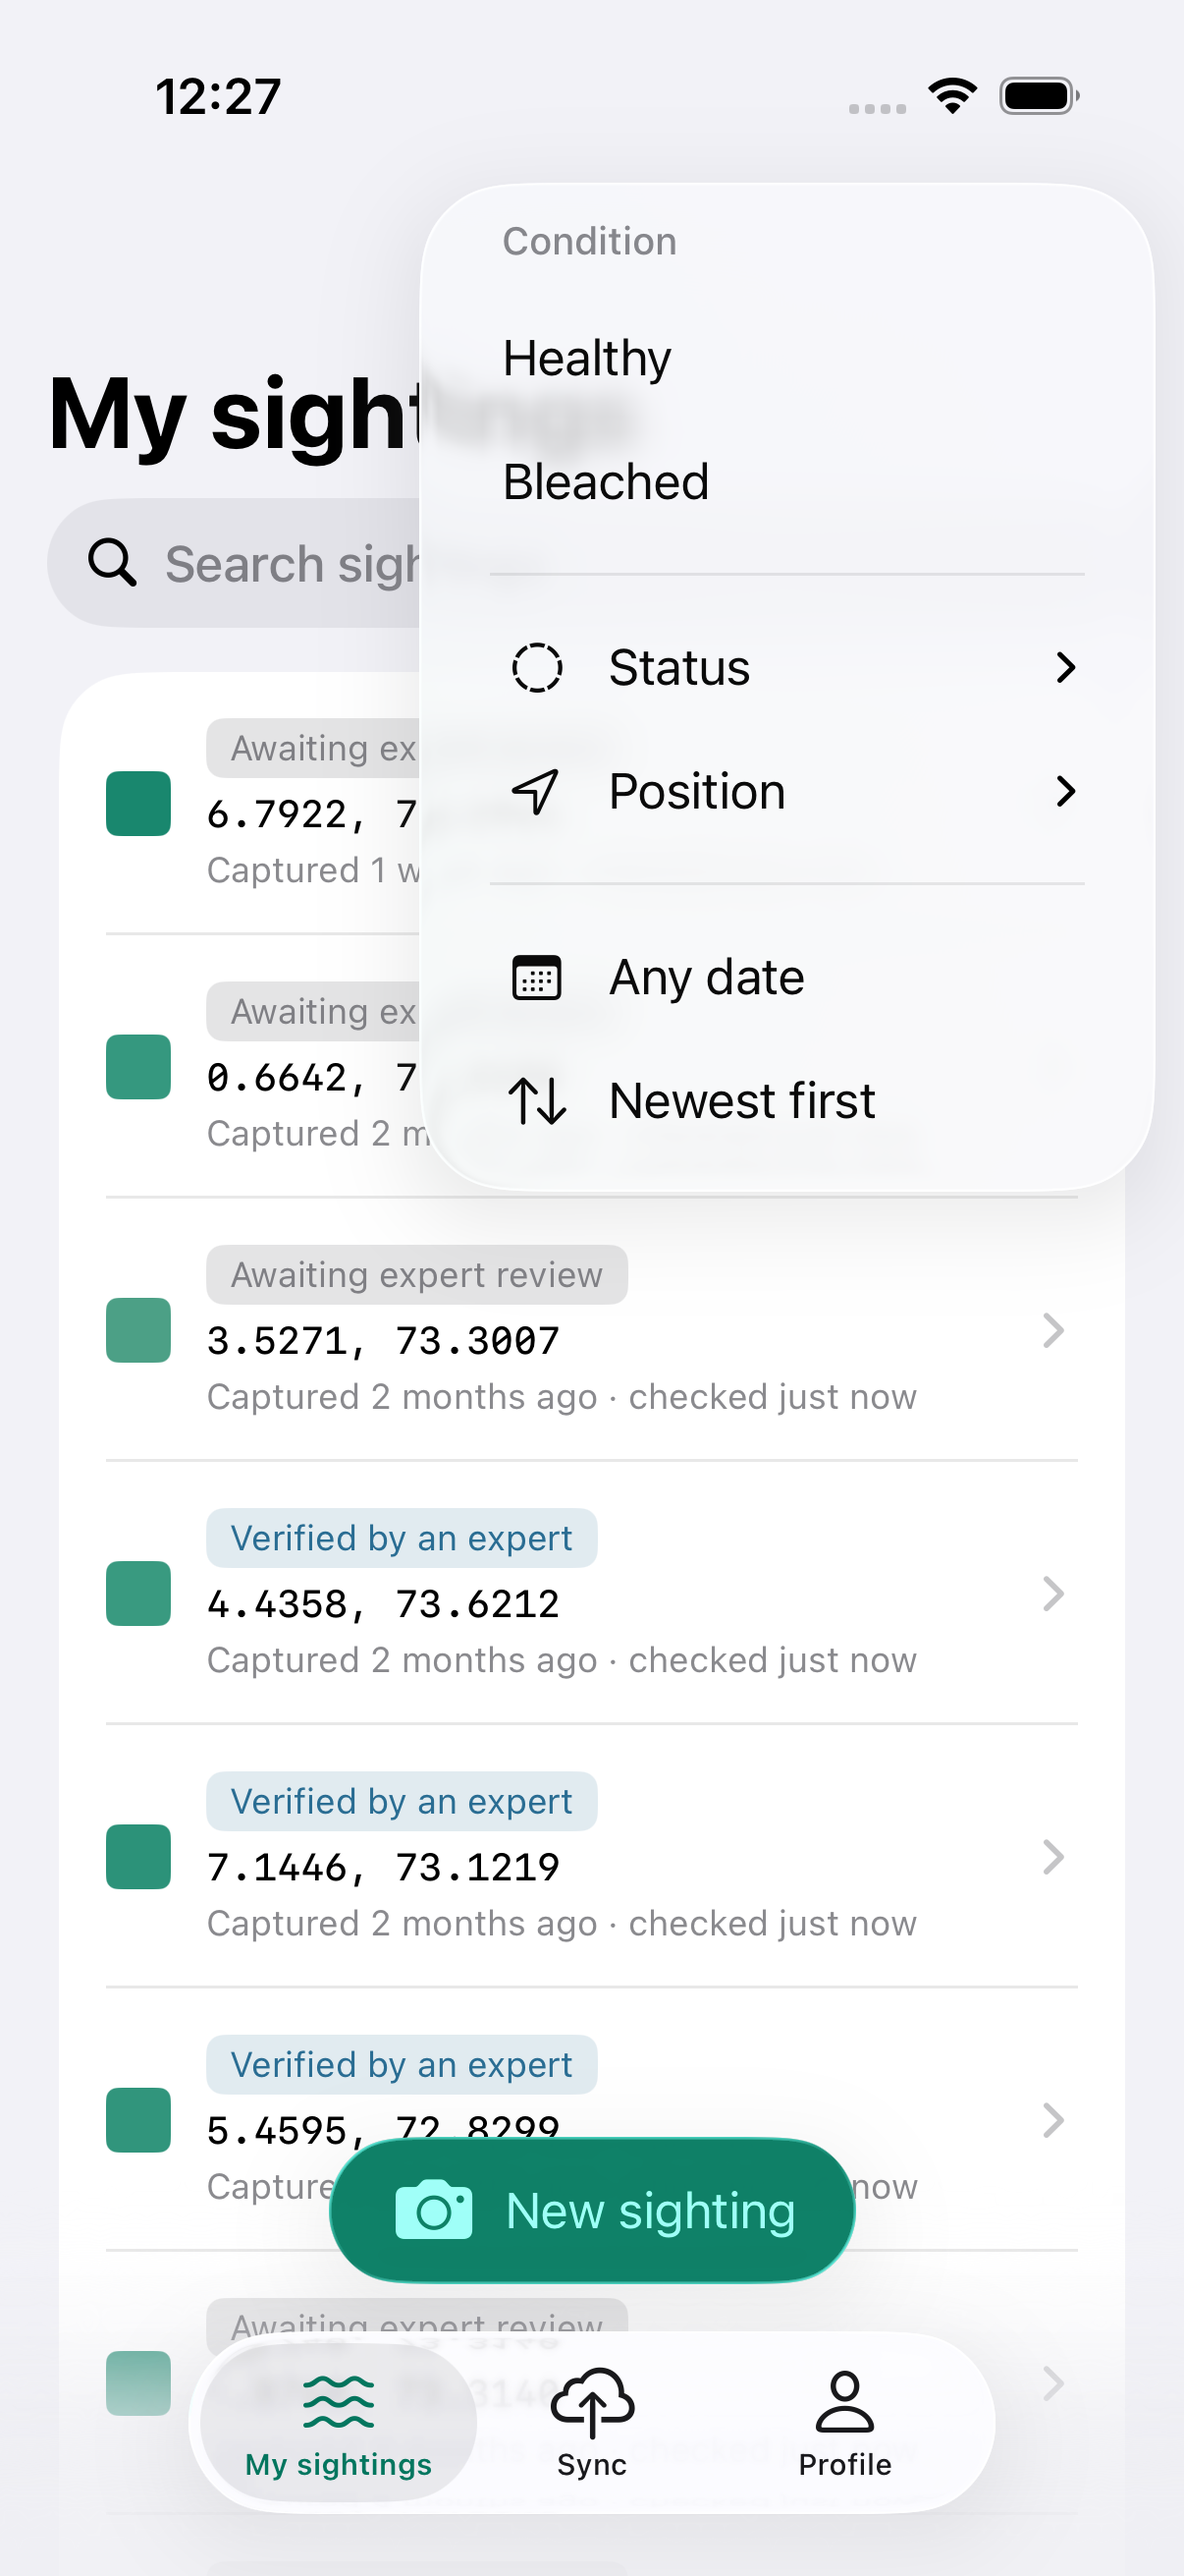
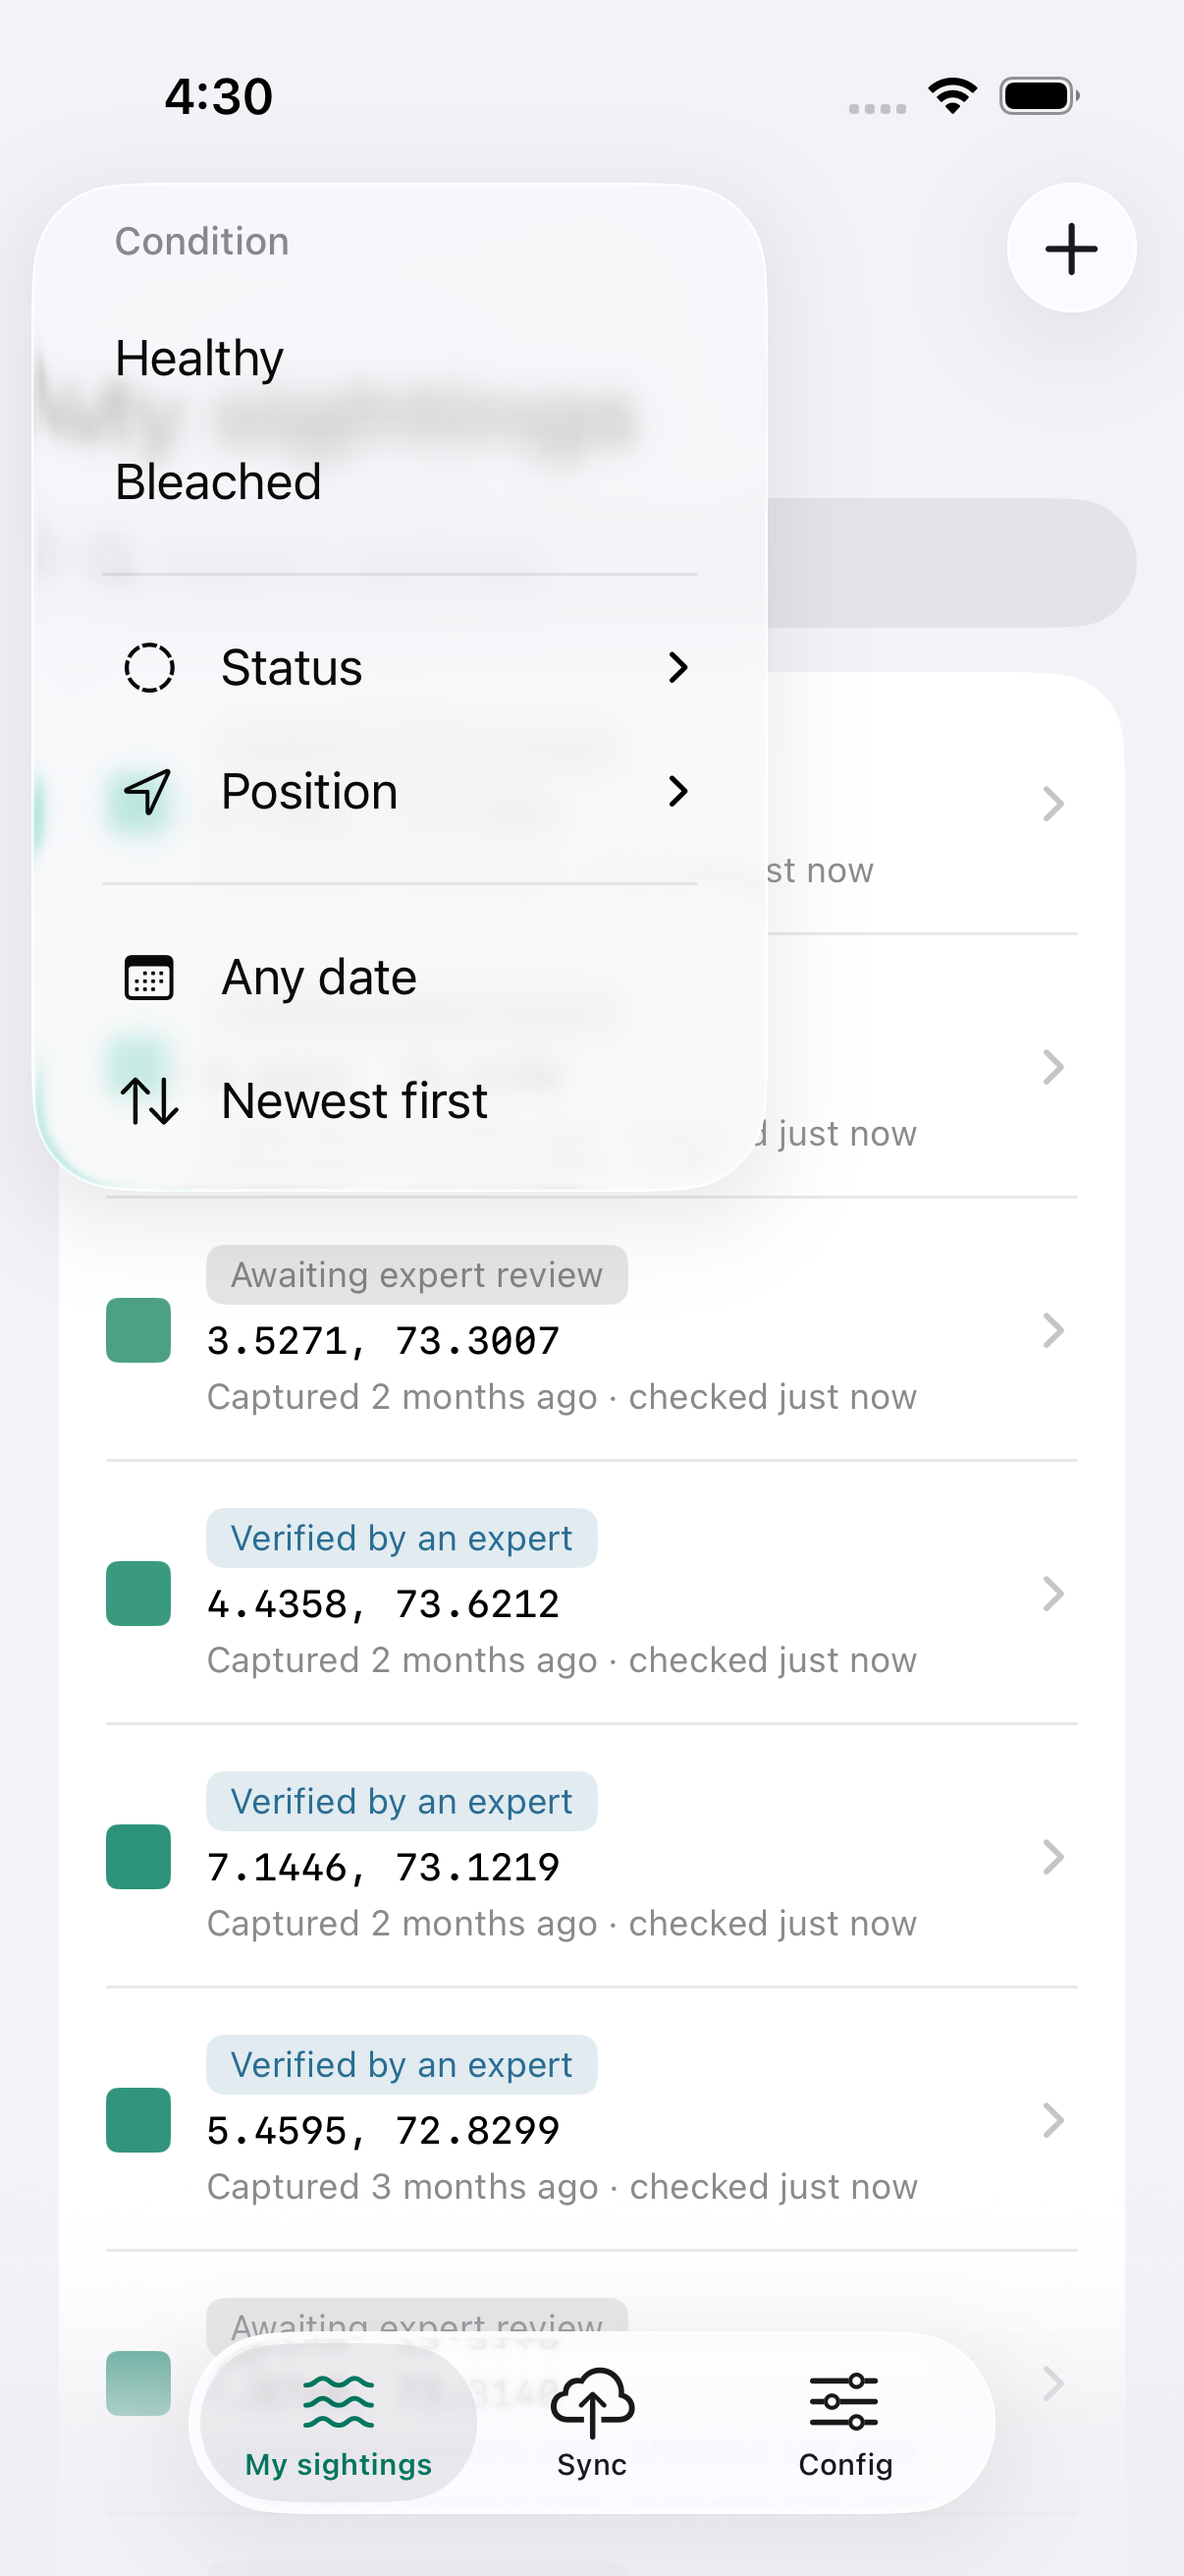
Move the iOS capture and filter controls into the navigation bar

diff --git a/ios/Muraka/Features/Sightings/MySightingsViewController.swift b/ios/Muraka/Features/Sightings/MySightingsViewController.swift
@@ -9,7 +9,6 @@ final class MySightingsViewController: UIViewController {
     private let container: AppContainer
     private let tableView = UITableView(frame: .zero, style: .insetGrouped)
     private let refreshControl = UIRefreshControl()
-    private let captureButton = UIButton(configuration: GlassSurface.makeButtonConfiguration(.primary))
 
     /// Everything the device knows about, unfiltered.
     private var allSightings: [ContributorSighting] = []
@@ -55,34 +54,21 @@ final class MySightingsViewController: UIViewController {
         tableView.register(SightingCell.self, forCellReuseIdentifier: SightingCell.reuseIdentifier)
         tableView.rowHeight = UITableView.automaticDimension
         tableView.estimatedRowHeight = 88
-        // Room for the floating capture button, which would otherwise cover the last row —
-        // and on a short history, every row.
-        tableView.contentInset.bottom = 96
+        // The floating tab bar is inside the safe area, which the automatic inset already
+        // accounts for; this is breathing room below the last row rather than clearance.
+        // It was 96 to clear a floating capture button that has since moved into the
+        // navigation bar.
+        tableView.contentInset.bottom = Spacing.lg
         refreshControl.addTarget(self, action: #selector(pullToRefresh), for: .valueChanged)
         tableView.refreshControl = refreshControl
         view.addSubview(tableView)
 
         // Glass, because this is chrome floating over content — exactly what it is for.
-        captureButton.configuration?.title = "New sighting"
-        captureButton.configuration?.image = UIImage(systemName: "camera.fill")
-        captureButton.configuration?.imagePadding = 8
-        captureButton.translatesAutoresizingMaskIntoConstraints = false
-        captureButton.addTarget(self, action: #selector(startCapture), for: .touchUpInside)
-        captureButton.accessibilityLabel = "Record a new sighting"
-        view.addSubview(captureButton)
-
         NSLayoutConstraint.activate([
             tableView.topAnchor.constraint(equalTo: view.topAnchor),
             tableView.leadingAnchor.constraint(equalTo: view.leadingAnchor),
             tableView.trailingAnchor.constraint(equalTo: view.trailingAnchor),
             tableView.bottomAnchor.constraint(equalTo: view.bottomAnchor),
-
-            captureButton.centerXAnchor.constraint(equalTo: view.centerXAnchor),
-            captureButton.bottomAnchor.constraint(
-                equalTo: view.safeAreaLayoutGuide.bottomAnchor,
-                constant: -16
-            ),
-            captureButton.heightAnchor.constraint(greaterThanOrEqualToConstant: 50),
         ])
     }
 
@@ -119,11 +105,30 @@ final class MySightingsViewController: UIViewController {
         navigationItem.preferredSearchBarPlacement = .stacked
         navigationItem.hidesSearchBarWhenScrolling = false
 
+        // `+` in the top right, which is where Contacts and Calendar have put "add" for
+        // years. Apple's newest apps (Mail, Notes on iOS 26) use a floating bottom-right
+        // button instead — but neither has a tab bar, so bottom-right is free for them. Ours
+        // does, and a floating pill there competed with the tab bar and covered the last row.
+        let capture = UIBarButtonItem(
+            systemItem: .add,
+            primaryAction: UIAction { [weak self] _ in self?.startCapture() }
+        )
+        capture.accessibilityLabel = "Record a new sighting"
+        capture.accessibilityIdentifier = "newSighting"
+        navigationItem.rightBarButtonItem = capture
+
         refreshFilterButton()
     }
 
+    /// The filter lives in the **left** slot.
+    ///
+    /// Not the conventional place — Files, Photos and Reminders all put view and sort options
+    /// top right, and the left slot is normally Back, Cancel or Edit. But this is a tab root,
+    /// so there is no Back to collide with, and the right slot now holds `+`; two icons there
+    /// alongside a search field is crowded enough to be worse than the unconventional
+    /// placement.
     private func refreshFilterButton() {
-        navigationItem.rightBarButtonItem = SightingFilterMenu.makeBarButton(
+        navigationItem.leftBarButtonItem = SightingFilterMenu.makeBarButton(
             filter: filter,
             actions: SightingFilterMenu.Actions(
                 setCondition: { [weak self] in self?.filter.condition = $0 },

diff --git a/ios/MurakaUITests/SignInFlowUITests.swift b/ios/MurakaUITests/SignInFlowUITests.swift
@@ -292,6 +292,40 @@ final class SignInFlowUITests: XCTestCase {
     }
 
     /// The contributor may never be shown a success the server has not confirmed (D21).
+    /// The floating tab bar on iOS 26 sits *over* the scroll view, so the last row is only
+    /// reachable if the content inset clears it. This is a regression guard with a specific
+    /// history: the capture control used to be a floating button and the inset was sized for
+    /// it, so shrinking the inset when that control moved into the navigation bar could
+    /// silently strand the final sighting underneath the tab bar.
+    func testTheLastRowIsReachableUnderTheFloatingTabBar() throws {
+        try skipUnlessStackIsUp()
+        signIn()
+
+        let cells = app.tables.cells
+        XCTAssertTrue(cells.element(boundBy: 0).waitForExistence(timeout: 15), "seed the stack first")
+
+        // Swipe rather than `scrollToElement`: the point is what a thumb can actually reach,
+        // and XCUIElement.tap() on an off-screen row would scroll it into view for free and
+        // prove nothing.
+        for _ in 0 ..< 12 { app.tables.firstMatch.swipeUp() }
+
+        let last = cells.element(boundBy: cells.count - 1)
+        attach(name: "07-list-bottom")
+        XCTAssertTrue(last.exists, "the list should still have rows after scrolling")
+        XCTAssertTrue(
+            last.isHittable,
+            "the last row is under the floating tab bar — the bottom content inset is too small"
+        )
+
+        let tabBar = app.tabBars.firstMatch
+        XCTAssertTrue(tabBar.exists)
+        XCTAssertLessThanOrEqual(
+            last.frame.maxY.rounded(),
+            tabBar.frame.minY.rounded(),
+            "the last row overlaps the tab bar even when fully scrolled"
+        )
+    }
+
     func testNoScreenClaimsASightingIsSynced() throws {
         try skipUnlessStackIsUp()
         signIn()

diff --git a/ios/Muraka/App/AppDelegate.swift b/ios/Muraka/App/AppDelegate.swift
@@ -30,11 +30,20 @@ final class AppDelegate: UIResponder, UIApplicationDelegate {
     /// app reinstall — which is correct behaviour and exactly what makes a test that assumes
     /// a signed-out app fail on its second run.
     ///
-    /// Only the session goes. The outbox is untouched, because a flag that also wiped queued
-    /// sightings would be a footgun aimed at the one thing this app must not lose.
+    /// The session and the appearance preferences go. The outbox is untouched, because a flag
+    /// that also wiped queued sightings would be a footgun aimed at the one thing this app
+    /// must not lose.
+    ///
+    /// Appearance is included because leaving it out made a test poison its own next run: the
+    /// test that proves the patch grid stays hidden across a relaunch left it hidden, so the
+    /// same test then failed its "starts visible" precondition the second time it ran. That is
+    /// display state rather than user data, so resetting it costs nothing — and the test that
+    /// checks the choice *survives* a relaunch drops this argument before relaunching, so it
+    /// still exercises the real persistence.
     private func resetSessionForUITestsIfRequested() {
         #if DEBUG
             guard ProcessInfo.processInfo.arguments.contains("-MurakaResetSession") else { return }
+            AppearanceStore().resetForUITests()
             let tokens = container.tokens
             // Synchronously, before any scene connects, or the first screen is chosen from a
             // session this is about to delete.

diff --git a/ios/Muraka/Domain/Model/ThemePreference.swift b/ios/Muraka/Domain/Model/ThemePreference.swift
@@ -86,6 +86,16 @@ final class AppearanceStore {
         get { defaults.object(forKey: gridKey) as? Bool ?? true }
         set { defaults.set(newValue, forKey: gridKey) }
     }
+
+    /// Returns both preferences to their defaults, for the UI tests' known-state launch
+    /// argument. Debug-only: nothing in a shipping build has any business erasing a choice
+    /// the contributor made.
+    #if DEBUG
+        func resetForUITests() {
+            defaults.removeObject(forKey: key)
+            defaults.removeObject(forKey: gridKey)
+        }
+    #endif
 }
 
 extension Notification.Name {

diff --git a/docs/evidence/mobile/README.md b/docs/evidence/mobile/README.md
@@ -55,6 +55,12 @@ written from the same reasoning. The controls are deliberately different: Materi
 on Android, a native `UIMenu` on iOS. What matches is the filter and its wording, not the
 widget.
 
+**Where the primary action sits is deliberately different.** `android-sightings.png` has a
+bottom-right FAB; `ios-my-sightings.png` has a `+` in the navigation bar. Both are what their
+platform's users reach for, and the divergence is the point — an assessor comparing the two
+screenshots is looking at rule 3 of `mobile-shared/README.md` being followed, not at
+inconsistency. See D38 in `docs/08`.
+
 **The grid toggle.** Compare `*-detail.png` with `*-detail-grid-off.png`. The lattice is an
 annotation, and an annotation that cannot be removed is an obstruction — turning it off is how
 a contributor checks the model's reading against the reef rather than against the model's own

diff --git a/ios/README.md b/ios/README.md
@@ -91,7 +91,8 @@ Or from the repository root: `make ios-build`, `make test-ios`, `make mobile-lin
 | `DurabilityPragmaTests` | WAL and `synchronous = FULL`, read back from a real file |
 | `APIClientIntegrationTests` | the client against the **running** API, not a stub |
 | `AppConfigurationTests` | the build configuration the app depends on |
-| `SignInFlowUITests` | sign in, every tab, a sighting — and that no screen claims delivery |
+| `SignInFlowUITests` | sign in, every tab, a sighting, search and filtering, the appearance toggle, the patch-grid toggle — and that no screen claims delivery |
+| `SignInFlowUITests` (layout) | that the last row clears the floating tab bar, which the safe area alone does not guarantee |
 
 The integration and UI suites skip rather than fail when the stack is not running, because a
 red suite on a machine with no Docker tells nobody anything.

diff --git a/mobile-shared/design-language.md b/mobile-shared/design-language.md
@@ -37,6 +37,12 @@ glass chrome, 24px rail radius and `linear()` springs have **no authority** on
 either app — they are recorded under `webOnly` in the token file for comparison
 only.
 
+**The clearest worked example is where the primary action sits.** Android puts "new
+sighting" in a bottom-right FAB; iOS puts it as a `+` in the navigation bar's
+trailing slot. Same action, same screen, deliberately different chrome, because that
+is what each platform's users already reach for. If a change makes the two apps look
+*more* alike in a place like this, it is probably wrong. See D38 in `docs/08`.
+
 ## Android — Material 3
 
 Follow [m3.material.io](https://m3.material.io): its components, shape scale,
